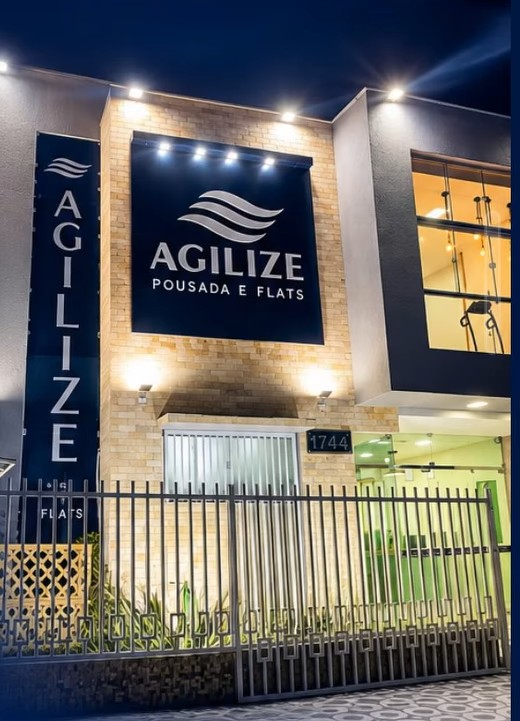
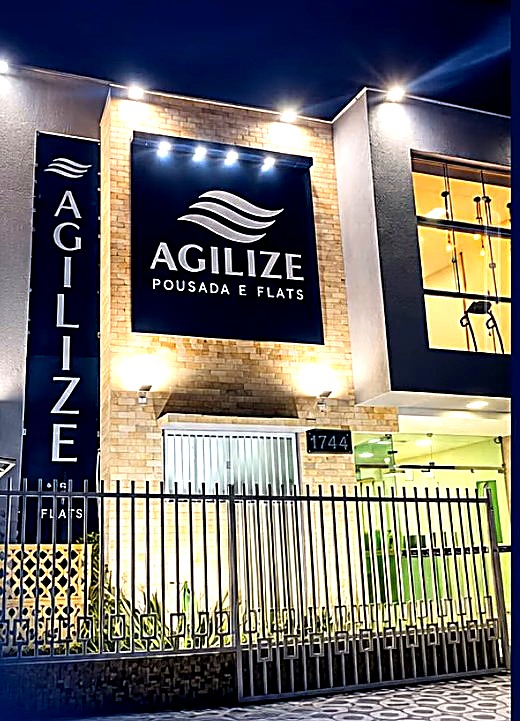
Make the AGILIZE facade sign more legible in the hero photo
Boost contrast/brightness/sharpness on facade-night.jpg so the
signage reads clearly, and lighten the hero's dark overlay in the
upper/mid band (where the sign sits) while keeping it dark enough
at the bottom for the heading text to stay readable.

Claude-Session: https://claude.ai/code/session_01HWXA7HdzB78kMpzbFiu3K1

diff --git a/assets/css/style.css b/assets/css/style.css
@@ -164,7 +164,7 @@ html.js [data-reveal].is-visible{ opacity:1; transform:translateY(0); }
 }
 .hero-media::before{
   content:""; position:absolute; inset:0; z-index:1;
-  background:linear-gradient(180deg, rgba(4,9,28,.35) 0%, rgba(4,9,28,.25) 42%, rgba(4,9,28,.92) 100%);
+  background:linear-gradient(180deg, rgba(4,9,28,.22) 0%, rgba(4,9,28,.12) 38%, rgba(4,9,28,.55) 68%, rgba(4,9,28,.94) 100%);
 }
 .hero-inner{ position:relative; z-index:2; padding:180px 0 96px; width:100%; }
 .hero-tag{ display:inline-flex; gap:10px; align-items:center; padding:9px 18px; border:1px solid rgba(233,211,155,.4); border-radius:var(--radius-pill); font-size:.7rem; letter-spacing:.2em; text-transform:uppercase; font-weight:600; margin-bottom:28px; color:var(--dourado-300); }
